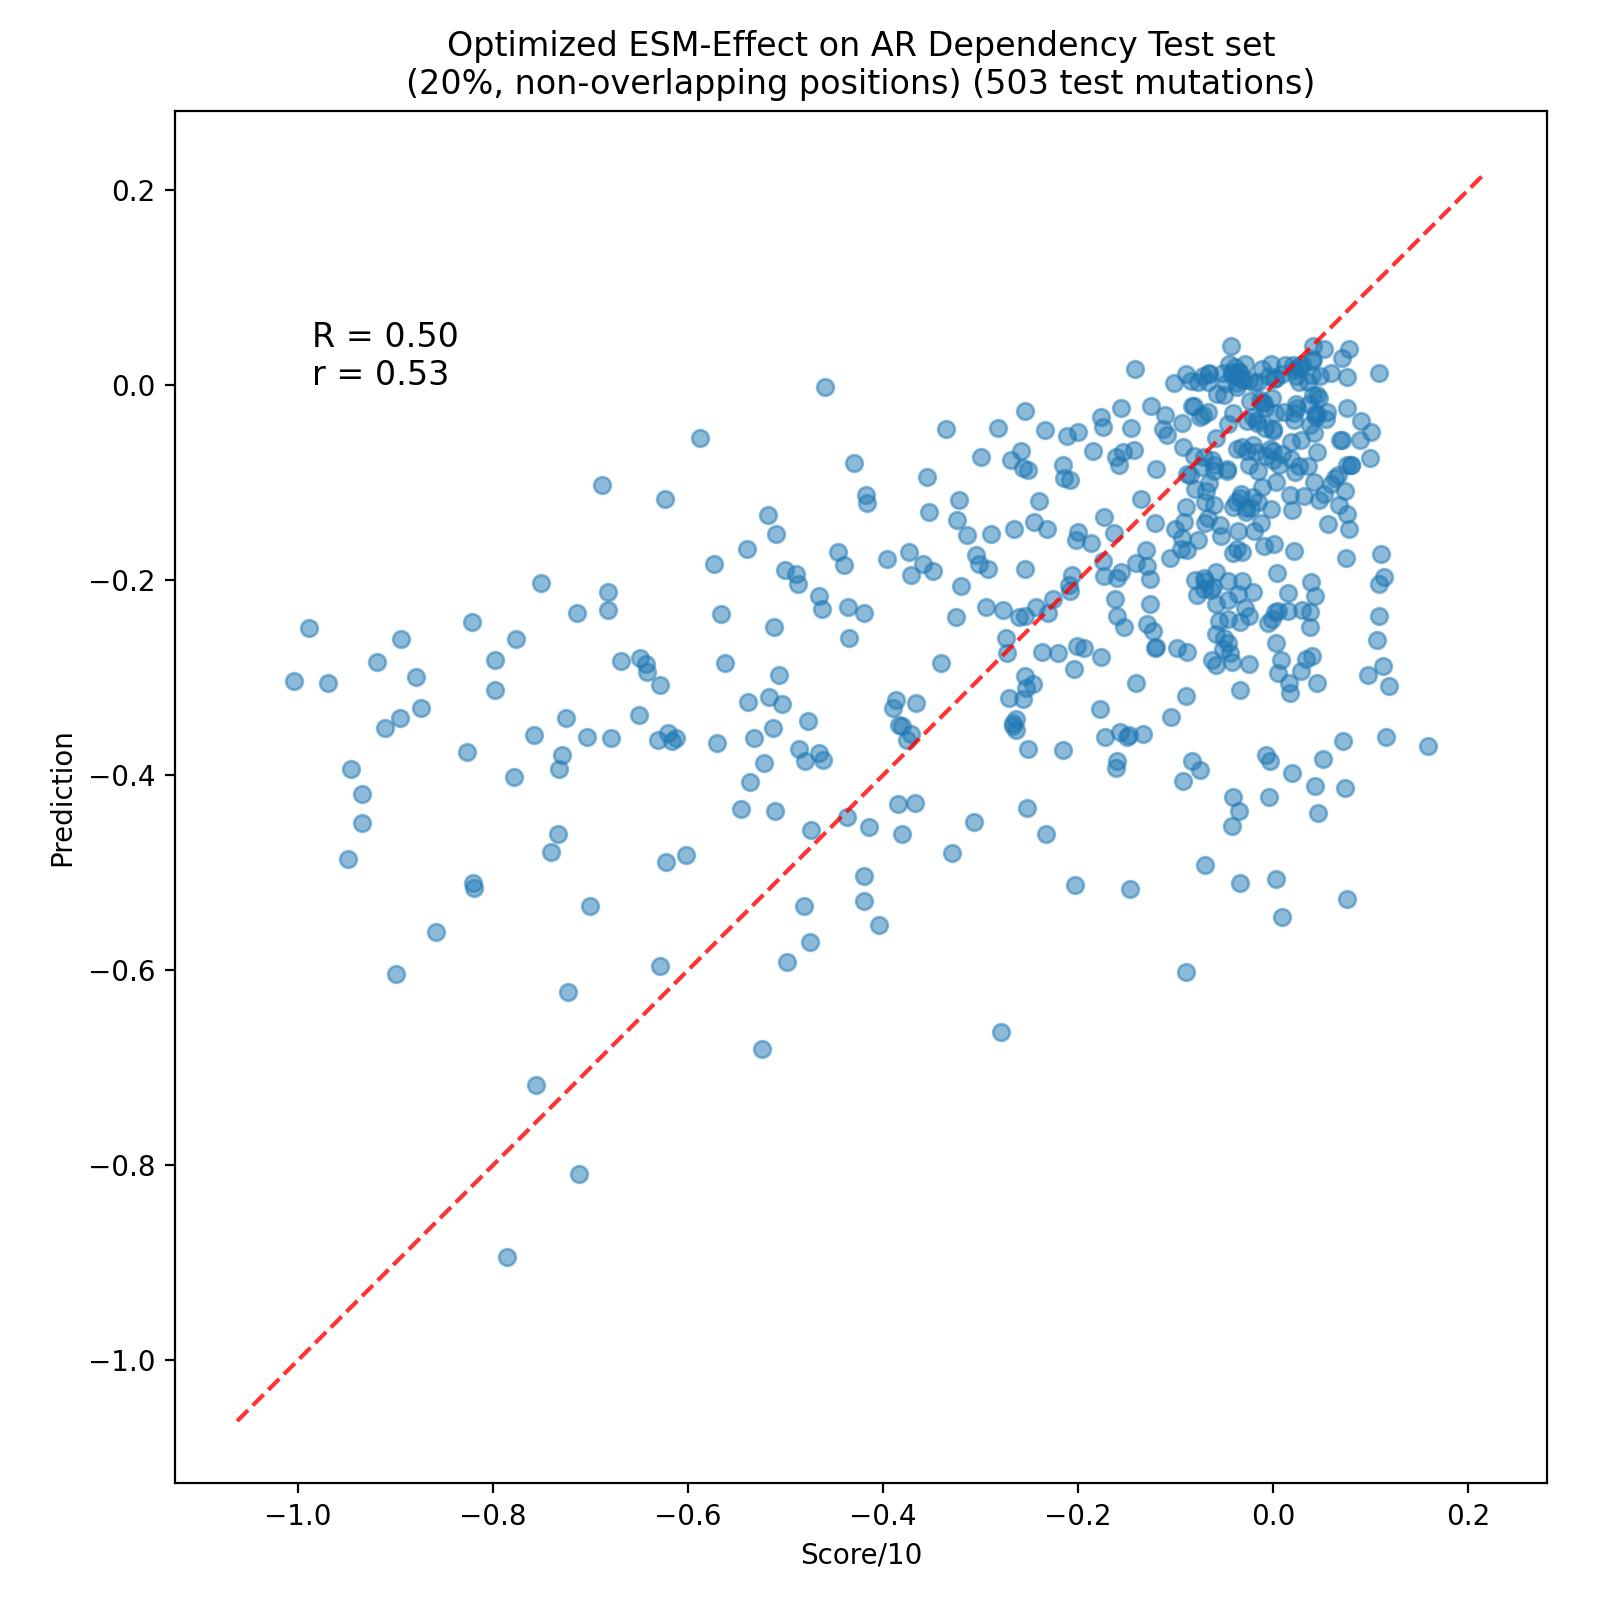
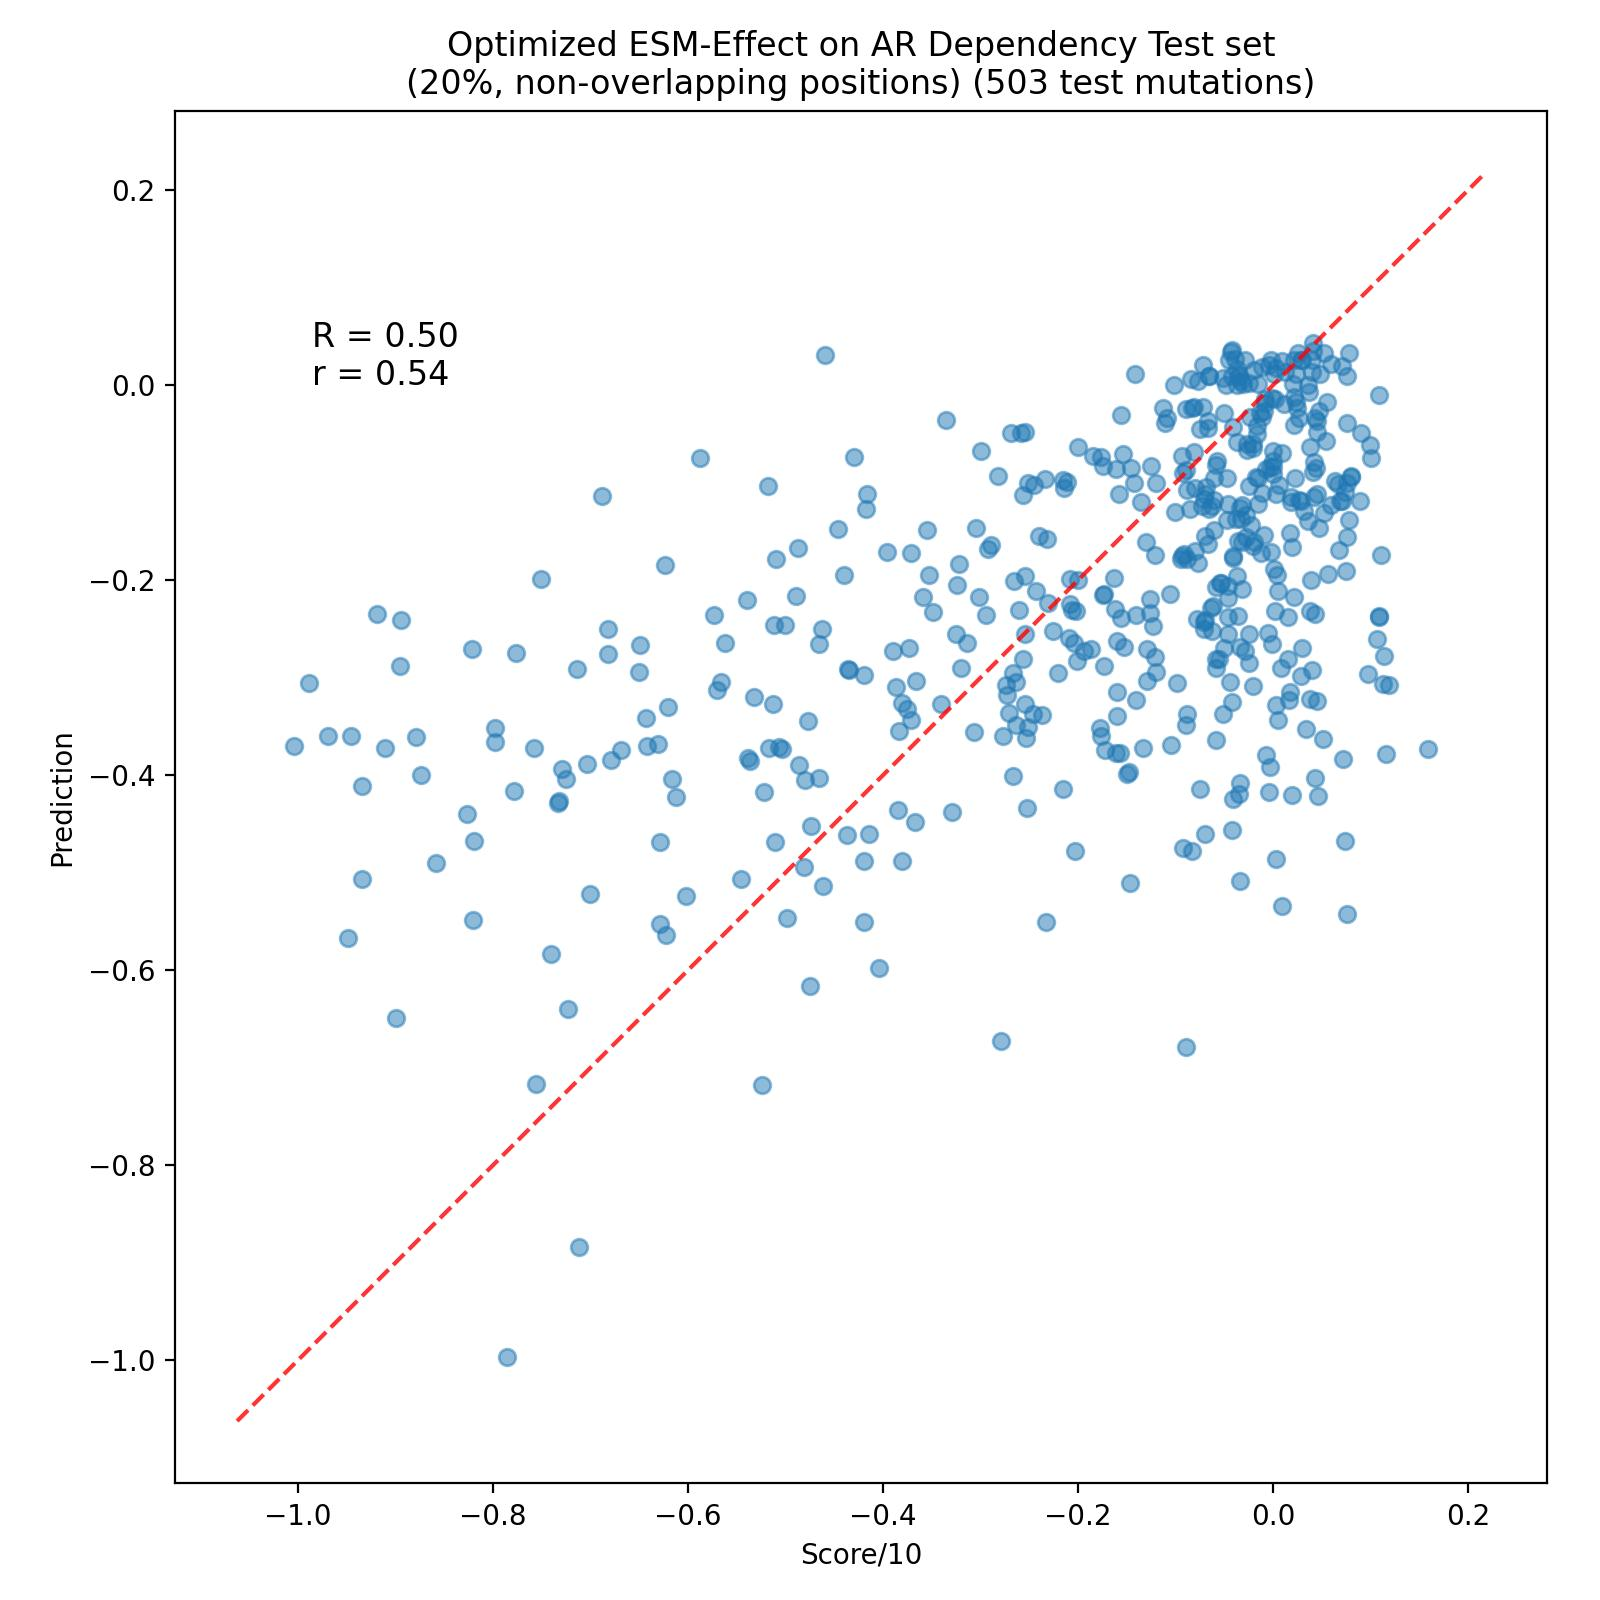
update hyperparams

diff --git a/ESM_Effect.py b/ESM_Effect.py
@@ -264,7 +264,7 @@ class ESMEffectFull(nn.Module):
                 cached_embeddings_wt.append(self.embedding_cache[tuple(seq_id)])
             else:
                 with torch.no_grad():
-                    x = self.esm2mut(tokens_wt[i].unsqueeze(0), repr_layers=list(range(0,11)))
+                    x = self.esm2wt(tokens_wt[i].unsqueeze(0), repr_layers=list(range(0,11)))
                 embedding = x['representations'][10]  # Take the output of the 10th layer
                 self.embedding_cache[tuple(seq_id)] = embedding.detach()  # Detach from computation graph
                 cached_embeddings_wt.append(embedding)
@@ -297,10 +297,7 @@ class ESMEffectFull(nn.Module):
 
         position = self.const1 * wt[torch.arange(batch_size), pos, :] + self.const2 * mut[torch.arange(batch_size), pos, :]
         mean = self.const3 * wt[:, 1:].mean(dim=1) + self.const4 * mut[:, 1:].mean(dim=1)
-        
-        # position = self.const1 * wt[torch.arange(batch_size), pos, :] + self.const2 * mut[torch.arange(batch_size), pos, :]
-        # mean = self.const1 * wt[:, 1:].mean(dim=1) + self.const2 * mut[:, 1:].mean(dim=1)
-        
+
         x = torch.cat((position, mean), dim=1)
         x = self.dropout(self.relu(self.classifierbig(self.dropout(x))))
         predictions = self.classifier(x)
@@ -711,9 +708,9 @@ warnings.filterwarnings("ignore", category=UserWarning, module="torch.optim.lr_s
 config = {
     'device': 'cuda' if torch.cuda.is_available() else 'cpu',
     'batch_size': 4,
-    'epochs': 5,
+    'epochs': 8,
     'criterion': 'MSELoss',
-    'lr_esm': 5e-5,
+    'lr_esm': 2e-5,
     'lr_head': 1e-4,
     'num_workers': 2,
     'feature_columns': ['classification']  # Add or remove features as needed (experimental feature, column must be present in dataset)
